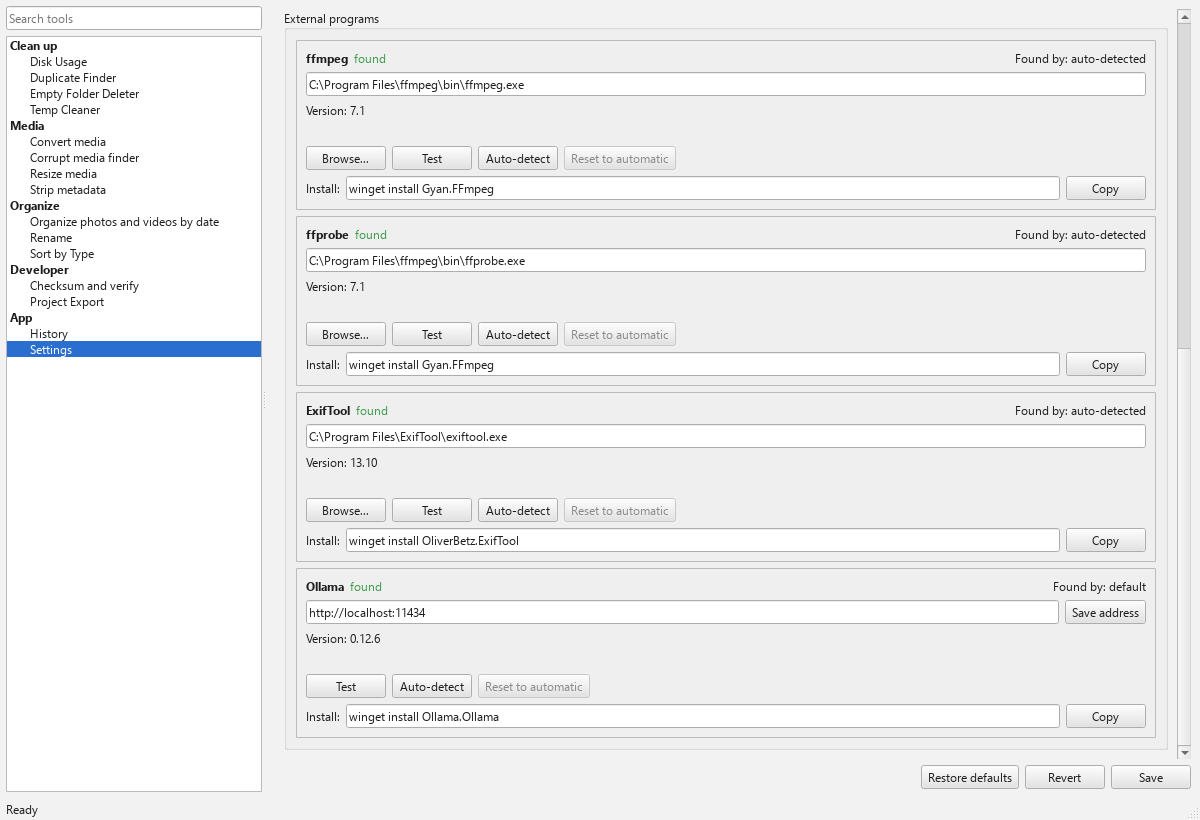
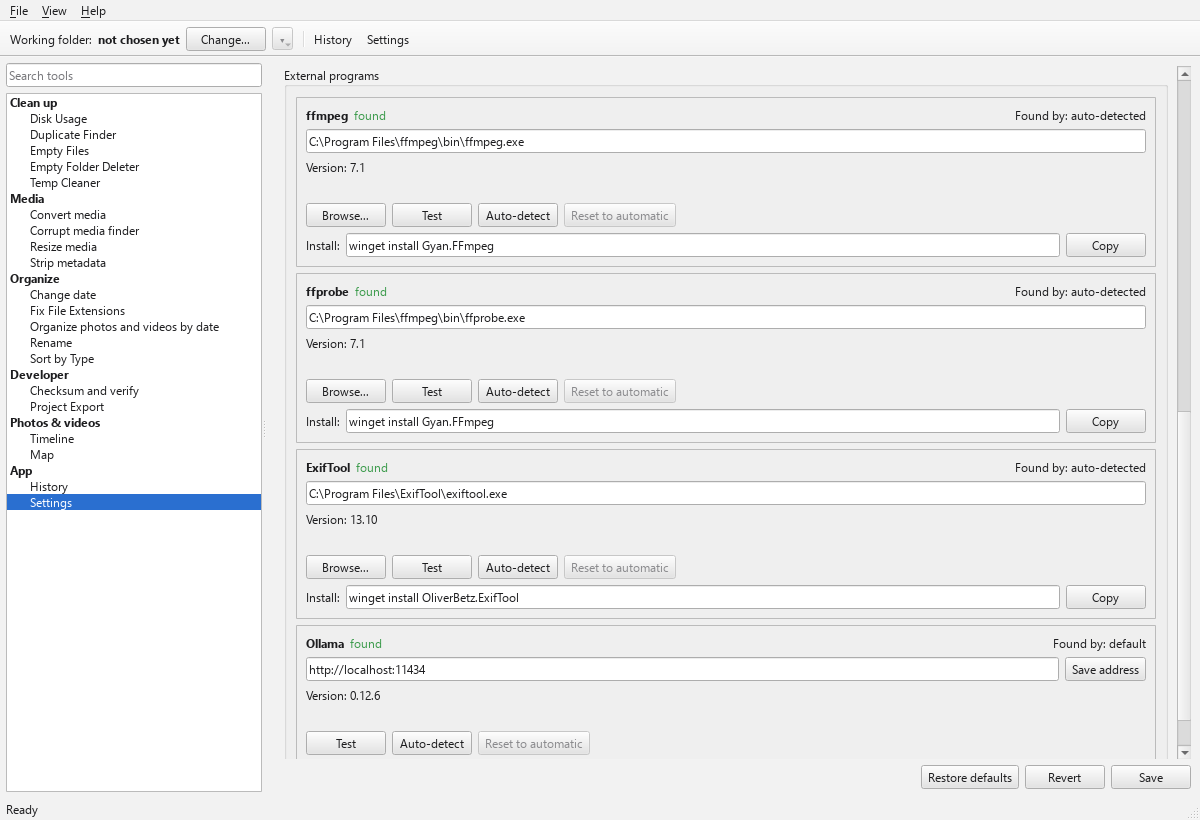
Screenshots: Home, tool page, Timeline and Map from generated fixture data; README

diff --git a/packaging/make_screenshots.py b/packaging/make_screenshots.py
@@ -8,7 +8,11 @@ light theme) into ``docs/images/``:
 * ``duplicates-compare.png``: the duplicates compare view on generated pictures;
 * ``disk-usage-size-map.png``: Disk Usage with its size map;
 * ``history.png``: History after two applied runs;
-* ``settings-external-programs.png``: Settings, scrolled to the external programs.
+* ``settings-external-programs.png``: Settings, scrolled to the external programs;
+* ``home.png``: the Home page with its tool cards;
+* ``tool-page-sort-by-type.png``: a tool page (Sort by type) with a scanned plan;
+* ``timeline.png``: the Timeline of a generated photo library;
+* ``map.png``: the Map of the same library (the built-in offline map, no network).
 
 No personal data can appear:
 
@@ -133,38 +137,85 @@ def make_trees() -> dict[str, Path]:
     photos = DEMO / "Photos"
     photos.mkdir()
     make_photos(photos)
-    return {"empty": files, "usage": usage, "sort": sorting, "photos": photos}
+    library = DEMO / "Library"
+    make_library(library)
+    return {
+        "empty": files,
+        "usage": usage,
+        "sort": sorting,
+        "photos": photos,
+        "library": library,
+    }
+
+
+# Made-up trips for the Timeline and Map: (folder, "YYYY:MM:DD", latitude, longitude, count).
+TRIPS: tuple[tuple[str, str, float, float, int], ...] = (
+    ("Lisbon", "2023:04:14", 38.72, -9.14, 6),
+    ("Kyoto", "2023:11:02", 35.01, 135.77, 7),
+    ("Cape Town", "2024:02:18", -33.92, 18.42, 5),
+    ("New York", "2024:06:09", 40.71, -74.0, 6),
+    ("Reykjavik", "2024:09:21", 64.15, -21.94, 5),
+    ("Home", "2025:01:05", 47.61, -122.33, 4),
+)
+
+
+def make_library(folder: Path) -> None:
+    """Generated pictures with a taken date and a place, so the Timeline and Map have content."""
+    from PIL import Image
+
+    exif_ifd, gps_ifd = 0x8769, 0x8825
+
+    def dms(value: float) -> tuple[float, float, float]:
+        value = abs(value)
+        degrees = int(value)
+        minutes = int((value - degrees) * 60)
+        return float(degrees), float(minutes), round((value - degrees - minutes / 60) * 3600, 2)
+
+    for trip, (name, date, lat, lon, count) in enumerate(TRIPS):
+        year, month, day = (int(part) for part in date.split(":"))
+        for i in range(count):
+            data = Image.Exif()
+            data.get_ifd(exif_ifd)[0x9003] = f"{year}:{month:02d}:{day + i % 3:02d} 1{i % 10}:20:00"
+            gps = data.get_ifd(gps_ifd)
+            gps[1], gps[2] = "N" if lat >= 0 else "S", dms(lat + i * 0.003)
+            gps[3], gps[4] = "E" if lon >= 0 else "W", dms(lon + i * 0.003)
+            picture = make_scene(trip * 7 + i, (480, 360))
+            target = folder / name / f"{name} {i + 1:02d}.jpg"
+            target.parent.mkdir(parents=True, exist_ok=True)
+            picture.save(target, "JPEG", quality=88, exif=data.tobytes())
+
+
+def make_scene(seed: int, size: tuple[int, int] = (1600, 1200)) -> Any:
+    """A generated landscape picture; the seed changes its colours."""
+    from PIL import Image, ImageDraw, ImageFilter
+
+    image = Image.new("RGB", size, (120 + seed * 7 % 60, 170, 220))
+    draw = ImageDraw.Draw(image)
+    w, h = size
+    draw.rectangle((0, int(h * 0.62), w, h), fill=(70, 140 - seed % 30, 70))
+    draw.ellipse((int(w * 0.68), int(h * 0.1), int(w * 0.86), int(h * 0.34)), fill=(250, 220, 90))
+    for i in range(6):
+        x = int(w * (0.08 + 0.15 * i))
+        draw.polygon(
+            [
+                (x, int(h * 0.62)),
+                (x + int(w * 0.07), int(h * 0.3)),
+                (x + int(w * 0.14), int(h * 0.62)),
+            ],
+            fill=(90 + 10 * i, 110, 130 + seed % 100),
+        )
+    return image.filter(ImageFilter.GaussianBlur(1.2))
 
 
 def make_photos(folder: Path) -> None:
     """A generated picture, an exact copy and a smaller re-save, plus an unrelated picture."""
-    from PIL import Image, ImageDraw, ImageFilter
+    from PIL import Image
 
-    def scene(seed: int, size: tuple[int, int] = (1600, 1200)) -> Image.Image:
-        image = Image.new("RGB", size, (120 + seed * 7 % 60, 170, 220))
-        draw = ImageDraw.Draw(image)
-        w, h = size
-        draw.rectangle((0, int(h * 0.62), w, h), fill=(70, 140 - seed % 30, 70))
-        draw.ellipse(
-            (int(w * 0.68), int(h * 0.1), int(w * 0.86), int(h * 0.34)), fill=(250, 220, 90)
-        )
-        for i in range(6):
-            x = int(w * (0.08 + 0.15 * i))
-            draw.polygon(
-                [
-                    (x, int(h * 0.62)),
-                    (x + int(w * 0.07), int(h * 0.3)),
-                    (x + int(w * 0.14), int(h * 0.62)),
-                ],
-                fill=(90 + 10 * i, 110, 130 + seed),
-            )
-        return image.filter(ImageFilter.GaussianBlur(1.2))
-
-    original = scene(1)
+    original = make_scene(1)
     original.save(folder / "Lake view.jpg", quality=92)
     shutil.copyfile(folder / "Lake view.jpg", folder / "Lake view (copy).jpg")
     original.resize((800, 600)).save(folder / "Lake view small.jpg", quality=85)
-    scene(9).transpose(Image.Transpose.FLIP_LEFT_RIGHT).save(folder / "Hills.jpg", quality=90)
+    make_scene(9).transpose(Image.Transpose.FLIP_LEFT_RIGHT).save(folder / "Hills.jpg", quality=90)
 
 
 # ----- fakes --------------------------------------------------------------------------------------
@@ -259,13 +310,26 @@ def main() -> int:
         remove_demo_folder()
 
 
+def fill_library(state: Any) -> None:
+    """Read the generated library into the catalog (inside the demo folder) before the pages open."""
+    from various_tools.core.context import make_context
+    from various_tools.core.media.library import MediaLibrary, library_path
+
+    ctx = make_context(state.settings, with_journal=False)
+    try:
+        with MediaLibrary(library_path(state.settings)) as lib:
+            lib.sync(state.settings.library_folders, ctx)
+    finally:
+        ctx.close()
+
+
 def shoot() -> int:
     from PySide6.QtGui import QFont
     from PySide6.QtWidgets import QApplication
 
     from various_tools.gui import app as gui_app
     from various_tools.gui import workers
-    from various_tools.gui.main_window import HISTORY_ID, SETTINGS_ID
+    from various_tools.gui.main_window import HISTORY_ID, HOME_ID, MAP_ID, SETTINGS_ID, TIMELINE_ID
     from various_tools.gui.shell import FakeRegistry
     from various_tools.gui.state import AppState
     from various_tools.gui.theme import apply_theme
@@ -281,6 +345,7 @@ def shoot() -> int:
                 f'data_folder = "{(DEMO / "data").as_posix()}"',
                 f'cache_folder = "{(DEMO / "cache").as_posix()}"',
                 f'onedrive_root = "{(DEMO / "OneDrive").as_posix()}"',
+                f'library_folders = ["{trees["library"].as_posix()}"]',
                 'theme = "light"',
                 'ollama_url = "http://localhost:11434"',
                 "",
@@ -295,6 +360,7 @@ def shoot() -> int:
     app.setFont(QFont("Segoe UI", 9))  # what the app shows on Windows; offscreen has no default
     state = AppState.load(config)
     state.deps = FakeDeps()  # type: ignore[assignment]
+    fill_library(state)
     window = gui_app.make_window(state, shell_backend=FakeRegistry())
     quiet(window)
     window.resize(WIDTH, HEIGHT)
@@ -350,7 +416,28 @@ def shoot() -> int:
     settle(app, 0.5)
     save(window, "history.png")
 
-    # 6. Settings, at the external programs.
+    # 6. Home, a tool page, the Timeline and the Map.
+    window.show_page(HOME_ID)
+    settle(app, 0.5)
+    save(window, "home.png")
+
+    page = window.open_tool("sort_by_type", str(trees["sort"]))
+    assert page is not None
+    run_page(app, page)
+    settle(app, 0.5)
+    save(window, "tool-page-sort-by-type.png")
+
+    timeline = window.show_page(TIMELINE_ID)
+    wait(app, lambda: not workers.active_workers(), timeout=60)
+    settle(app, 1.5)  # thumbnails load in the background
+    save(window, "timeline.png")
+
+    window.show_page(MAP_ID)
+    settle(app, 1.5)
+    save(window, "map.png")
+    del timeline
+
+    # 7. Settings, at the external programs.
     window.show_page(SETTINGS_ID)
     settle(app, 0.3)
     panel = window.settings_page.tools_panel

diff --git a/README.md b/README.md
@@ -6,6 +6,22 @@ This repository started as the **Empty Folder Deleter** Tkinter app; that app is
 
 ## Screenshots
 
+![The Home page with the tool cards](docs/images/home.png)
+
+Home: every tool, and the working folder they share.
+
+![A tool page: Sort by type with its plan](docs/images/tool-page-sort-by-type.png)
+
+A tool page: Sort by type, with the plan to check before applying.
+
+![The Timeline page](docs/images/timeline.png)
+
+Timeline: photos and videos by the date they were taken.
+
+![The Map page](docs/images/map.png)
+
+Map: where the photos were taken (the built-in offline map).
+
 ![The main window with the Empty Folder Deleter tool: options form and the plan as a folder tree](docs/images/main-window-empty-folders.png)
 
 The Empty Folder Deleter tool: the options form and the plan as a folder tree.
@@ -238,3 +254,7 @@ If you encounter any problems or have any suggestions, please [open an issue](ht
 ---
 
 Developed with ❤ by Jay Singhvi
+
+## Gentle on OneDrive
+
+`apply` can work in batches: `--batch-size N --pause 5m`. Add `--wait-for-upload` (with an optional `--upload-timeout 30m`, 30 minutes by default) to also wait, after each batch, until OneDrive has uploaded the files that batch wrote. The Apply window has the same choice. Files OneDrive cannot report on count as uploaded, and nothing is downloaded to check.
